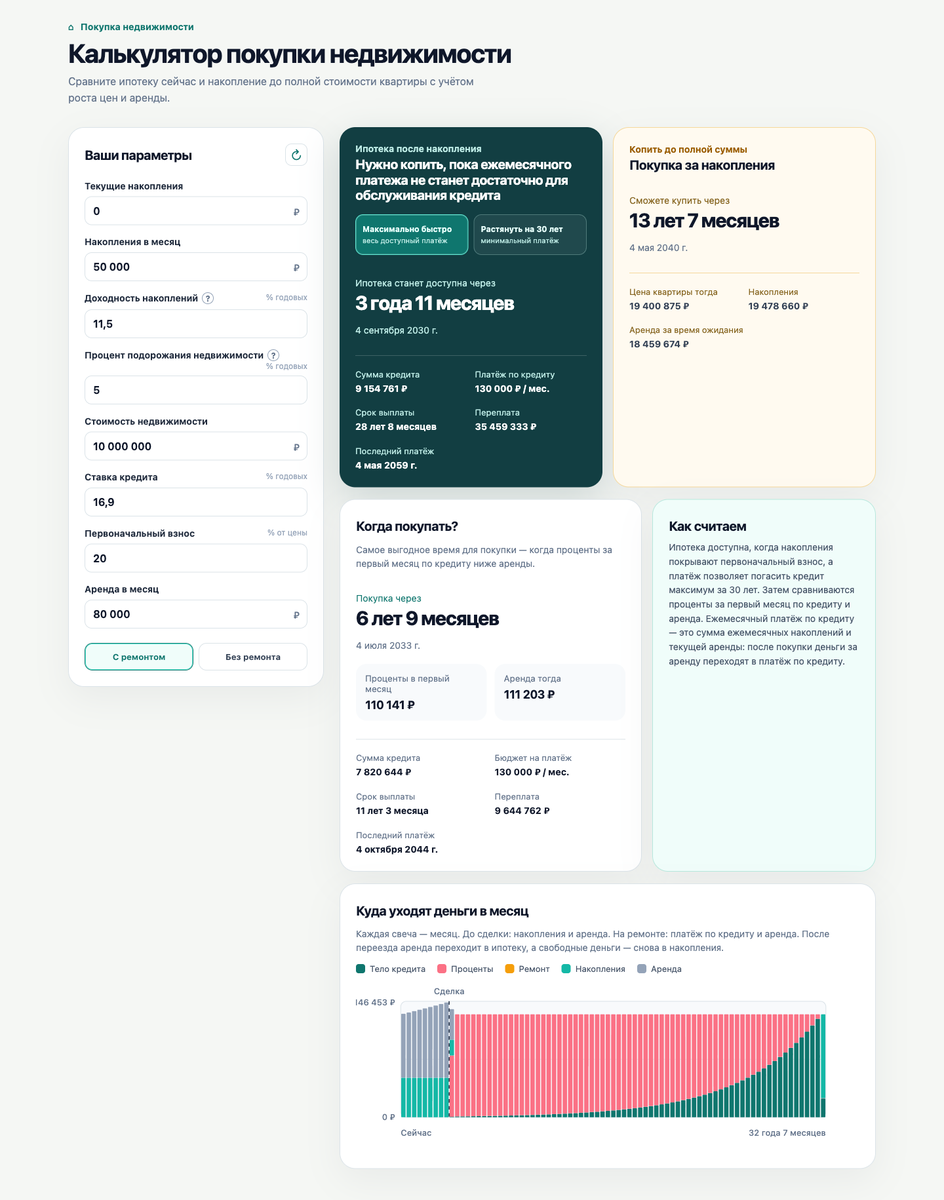
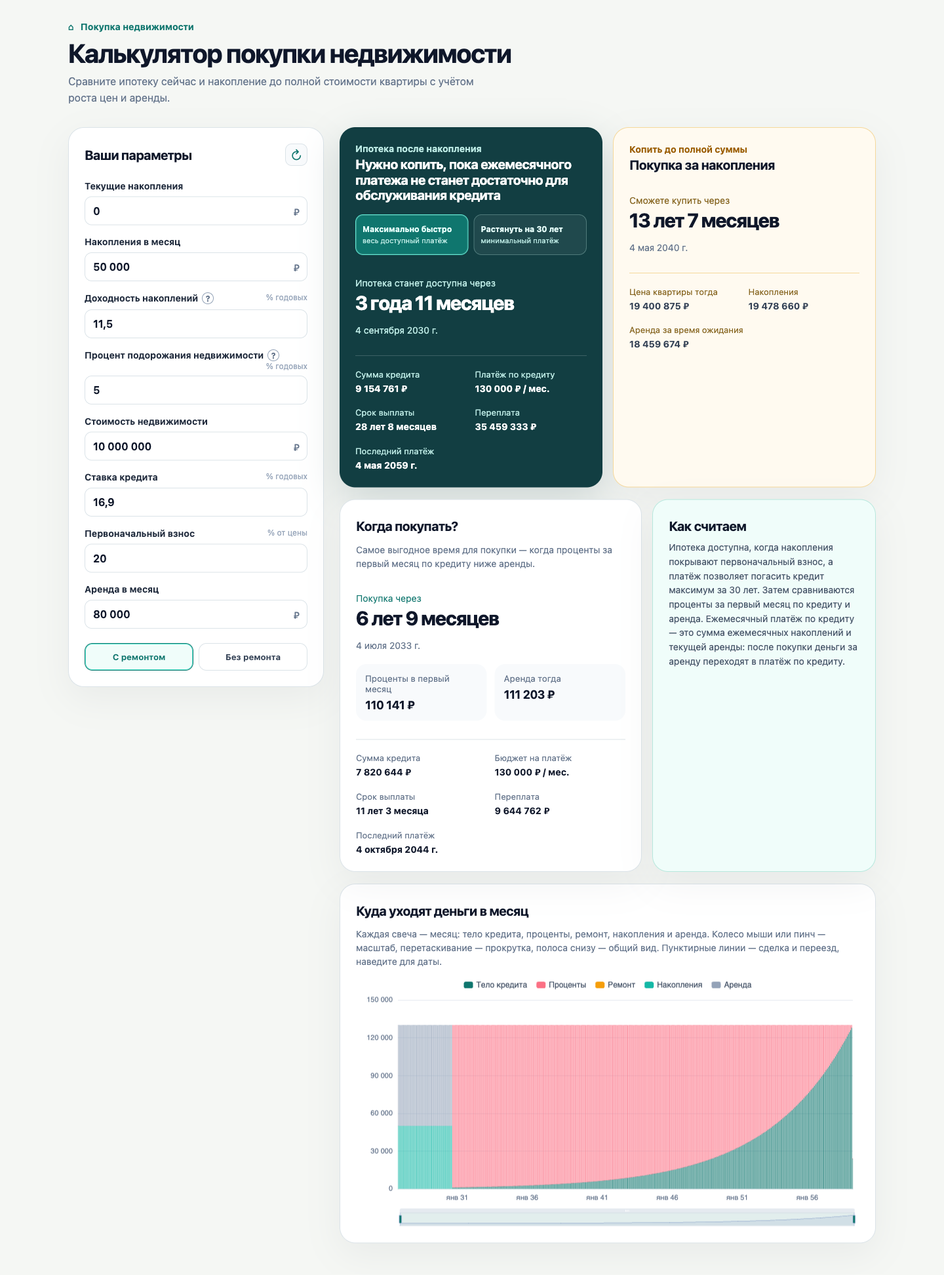
Swap the custom SVG chart for ECharts (#10)
The hand-rolled zoom (window buttons + pointer drag) felt wooden.
ECharts gives native wheel/pinch zoom, drag panning, an overview
slider, per-month tooltips with totals, deal/move mark lines and a
clickable legend. Monthly bars at full resolution - no bucketing.
Bundle +215 kB gzip. Also clip horizontal overflow from the hint
popovers on mobile.

diff --git a/src/App.vue b/src/App.vue
@@ -1,6 +1,12 @@
 <script setup>
-import { computed, nextTick, onMounted, reactive, ref } from 'vue';
+import { computed, nextTick, onBeforeUnmount, onMounted, reactive, ref, watch } from 'vue';
 import { DEFAULTS, SIMULATION_HORIZON_MONTHS, RENOVATION_COST_SHARE, calculate, isMortgagePaymentTooLow, buildCashflow, rentPaidUntilMonth } from './lib/model.js';
+import * as echarts from 'echarts/core';
+import { BarChart } from 'echarts/charts';
+import { DataZoomComponent, GridComponent, LegendComponent, TooltipComponent } from 'echarts/components';
+import { CanvasRenderer } from 'echarts/renderers';
+
+echarts.use([BarChart, DataZoomComponent, GridComponent, LegendComponent, TooltipComponent, CanvasRenderer]);
 import { addMonths, formatDate, duration } from './lib/format.js';
 
 const inputs = reactive({ ...DEFAULTS });
@@ -46,82 +52,72 @@ const setRenovationCost = (event) => {
 };
 const result = computed(() => calculate(inputs, repaymentMode.value, { needed: renovationNeeded.value, cost: renovationCost.value, months: renovationMonths.value, funding: renovationFunding.value }));
 const mortgagePaymentTooLow = computed(() => isMortgagePaymentTooLow(result.value));
-const CASHFLOW_SEGMENTS = [
-  { key: 'principal', label: 'Тело кредита', pick: (row) => row.principal },
-  { key: 'interest', label: 'Проценты', pick: (row) => row.interest },
-  { key: 'renovation', label: 'Ремонт', pick: (row) => row.renovation },
-  { key: 'savings', label: 'Накопления', pick: (row) => row.savings },
-  { key: 'rent', label: 'Аренда', pick: (row) => row.rent }
-];
-const cashflow = computed(() => buildCashflow(inputs, repaymentMode.value, { needed: renovationNeeded.value, cost: renovationCost.value, months: renovationMonths.value, funding: renovationFunding.value }));
-const cashflowHover = ref(null);
-const cashflowTooltip = (row, event) => {
-  const container = event.currentTarget.closest('.cashflow-chart');
-  const rect = container.getBoundingClientRect();
-  let left = event.clientX - rect.left + 16, top = event.clientY - rect.top + 16;
-  if (left > rect.width - 250) left -= 266;
-  if (top > rect.height - 180) top -= 196;
-  cashflowHover.value = {
-    left: Math.max(4, left), top: Math.max(4, top),
-    period: row.period,
-    segments: row.segments.filter(({ value }) => value >= 1),
-    total: row.segments.reduce((acc, segment) => acc + segment.value, 0)
-  };
-};
-const cashflowMarkerTooltip = (label, month, event) => {
-  const container = event.currentTarget.closest('.cashflow-chart');
-  const rect = container.getBoundingClientRect();
-  let left = event.clientX - rect.left + 14, top = event.clientY - rect.top + 14;
-  if (left > rect.width - 230) left -= 246;
-  cashflowHover.value = {
-    left: Math.max(4, left), top: Math.max(4, top),
-    period: `${label}: ${formatDate(addMonths(new Date(), month))}`,
-    segments: [], total: null
-  };
-};
-const cashflowChart = computed(() => {
-  const data = cashflow.value;
-  if (!data) return null;
-  const total = data.rows.length;
-  const bucketSize = Math.max(1, Math.ceil(total / 80));
-  const buckets = [];
-  for (let start = 0; start < total; start += bucketSize) {
-    const slice = data.rows.slice(start, start + bucketSize);
-    const average = (key) => slice.reduce((acc, row) => acc + row[key], 0) / slice.length;
-    buckets.push({ start, end: start + slice.length - 1, months: slice.length, savings: average('savings'), rent: average('rent'), renovation: average('renovation'), interest: average('interest'), principal: average('principal') });
-  }
-  const slot = 608 / buckets.length;
-  const barWidth = Math.min(slot * 0.82, 26);
-  const rows = buckets.map((bucket, index) => {
-    const segments = [];
-    let top = 200;
-    for (const segment of CASHFLOW_SEGMENTS) {
-      const value = segment.pick(bucket);
-      if (value < 0.5) continue;
-      const height = value / data.maximum * 166;
-      top -= height;
-      segments.push({ key: segment.key, y: top, height, label: segment.label, value });
-    }
-    const period = bucket.months > 1
-      ? `В среднем в месяц, ${formatDate(addMonths(new Date(), bucket.start))} — ${formatDate(addMonths(new Date(), bucket.end))}`
-      : `${formatDate(addMonths(new Date(), bucket.start))}`;
-    return { month: bucket.start, x: 64 + index * slot + (slot - barWidth) / 2, segments, period };
-  });
-  const markerX = (month) => 64 + Math.min(buckets.length - 1, Math.floor(month / bucketSize)) * slot;
-  const dealX = data.dealMonth > 0 ? markerX(data.dealMonth) : null;
-  const moveX = data.moveMonth > data.dealMonth ? markerX(data.moveMonth) : null;
-  const splitLabels = dealX !== null && moveX !== null && moveX - dealX < 80;
-  return {
-    rows, barWidth, dealMonth: data.dealMonth, moveMonth: data.moveMonth, dealX, moveX,
-    dealText: { x: splitLabels ? dealX - 8 : dealX, anchor: splitLabels ? 'end' : 'middle' },
-    moveText: { x: splitLabels ? moveX + 8 : moveX, anchor: splitLabels ? 'start' : 'middle' },
-    dealHit: splitLabels ? { x: dealX - 78, width: 80 } : { x: dealX - 22, width: 44 },
-    moveHit: splitLabels ? { x: moveX - 2, width: 80 } : { x: moveX - 22, width: 44 },
-    endLabel: duration(total)
-  };
-});
 const moveDate = (month) => month > SIMULATION_HORIZON_MONTHS ? 'Не достижимо' : formatDate(addMonths(new Date(), month));
 const moveRent = (month) => month > SIMULATION_HORIZON_MONTHS ? '—' : money.format(rentPaidUntilMonth(inputs, month));
+const CASHFLOW_SEGMENTS = [
+  { key: 'principal', label: 'Тело кредита', color: '#0f766e', pick: (row) => row.principal },
+  { key: 'interest', label: 'Проценты', color: '#fb7185', pick: (row) => row.interest },
+  { key: 'renovation', label: 'Ремонт', color: '#f59e0b', pick: (row) => row.renovation },
+  { key: 'savings', label: 'Накопления', color: '#14b8a6', pick: (row) => row.savings },
+  { key: 'rent', label: 'Аренда', color: '#94a3b8', pick: (row) => row.rent }
+];
+const cashflow = computed(() => buildCashflow(inputs, repaymentMode.value, { needed: renovationNeeded.value, cost: renovationCost.value, months: renovationMonths.value, funding: renovationFunding.value }));
+const cashflowEl = ref(null);
+let cashflowChart = null;
+const MONTHS_SHORT = ['янв', 'фев', 'мар', 'апр', 'май', 'июн', 'июл', 'авг', 'сен', 'окт', 'ноя', 'дек'];
+const formatMonthTick = (value) => { const date = new Date(value); return `${MONTHS_SHORT[date.getMonth()]} ${String(date.getFullYear()).slice(2)}`; };
+const buildCashflowOption = (data) => {
+  const monthDate = (month) => addMonths(new Date(), month).getTime();
+  const series = CASHFLOW_SEGMENTS.map((segment) => ({
+    name: segment.label,
+    type: 'bar',
+    stack: 'month',
+    barMaxWidth: 34,
+    itemStyle: { color: segment.color },
+    data: data.rows.map((row) => [monthDate(row.month), Math.round(segment.pick(row))])
+  }));
+  const marks = [];
+  if (data.dealMonth > 0) marks.push({ xAxis: monthDate(data.dealMonth), label: { formatter: 'Сделка', position: 'insideEndTop', color: '#334155' }, lineStyle: { color: '#334155', type: 'dashed', width: 1.5 } });
+  if (data.moveMonth > data.dealMonth) marks.push({ xAxis: monthDate(data.moveMonth), label: { formatter: 'Переезд', position: 'insideEndTop', color: '#334155' }, lineStyle: { color: '#334155', type: 'dashed', width: 1.5 } });
+  if (marks.length) series[0].markLine = { symbol: 'none', silent: true, animation: false, data: marks };
+  return {
+    animationDuration: 150,
+    tooltip: {
+      trigger: 'axis',
+      axisPointer: { type: 'shadow', shadowStyle: { color: 'rgba(15, 23, 42, .06)' } },
+      backgroundColor: '#0f172a',
+      borderWidth: 0,
+      padding: [10, 12],
+      textStyle: { color: '#e2e8f0', fontSize: 12 },
+      formatter: (points) => {
+        const total = points.reduce((acc, point) => acc + (point.value?.[1] ?? 0), 0);
+        const rowsHtml = points.filter((point) => (point.value?.[1] ?? 0) > 0).map((point) => `<div style="display:flex;justify-content:space-between;gap:18px"><span>${point.marker}${point.seriesName}</span><b>${money.format(point.value[1])}</b></div>`).join('');
+        return `<div style="min-width:210px"><div style="color:#94a3b8;font-size:11px;margin-bottom:4px">${formatDate(new Date(points[0].value[0]))}</div>${rowsHtml}<div style="display:flex;justify-content:space-between;gap:18px;border-top:1px solid rgba(255,255,255,.16);margin-top:6px;padding-top:5px"><span>Всего в месяц</span><b>${money.format(total)}</b></div></div>`;
+      }
+    },
+    legend: { top: 0, itemWidth: 14, itemHeight: 10, itemGap: 14, textStyle: { color: '#475569', fontSize: 12 } },
+    grid: { left: 64, right: 10, top: 34, bottom: 58 },
+    xAxis: { type: 'time', axisLine: { lineStyle: { color: '#dbe3e8' } }, axisTick: { show: false }, axisLabel: { color: '#64748b', fontSize: 11, formatter: (value) => formatMonthTick(value), hideOverlap: true } },
+    yAxis: { type: 'value', axisLine: { show: false }, axisTick: { show: false }, axisLabel: { color: '#64748b', fontSize: 11, formatter: (value) => plainNumber.format(value) }, splitLine: { lineStyle: { color: '#e2e8f0' } } },
+    dataZoom: [
+      { type: 'inside', filterMode: 'none' },
+      { type: 'slider', height: 20, bottom: 8, filterMode: 'none', borderColor: '#dbe3e8', fillerColor: 'rgba(15, 118, 110, .12)', handleStyle: { color: '#0f766e' }, moveHandleStyle: { color: '#cbd5e1' }, emphasis: { handleStyle: { borderColor: '#0f766e' } }, textStyle: { color: '#64748b', fontSize: 10 }, labelFormatter: (value) => formatMonthTick(value) }
+    ],
+    series
+  };
+};
+const renderCashflow = () => {
+  if (!cashflowEl.value) return;
+  if (!cashflowChart) {
+    cashflowChart = echarts.init(cashflowEl.value);
+    new ResizeObserver(() => cashflowChart?.resize()).observe(cashflowEl.value);
+  }
+  if (cashflow.value) cashflowChart.setOption(buildCashflowOption(cashflow.value), { notMerge: true });
+  else cashflowChart.clear();
+};
+watch(cashflow, renderCashflow, { flush: 'post' });
+onMounted(renderCashflow);
+onBeforeUnmount(() => { cashflowChart?.dispose(); cashflowChart = null; });
 const reset = () => { Object.assign(inputs, DEFAULTS); focusedAmount.value = null; renovationNeeded.value = false; renovationFunding.value = 'before'; renovationMonths.value = 6; renovationCostDraft.value = null; renovationCostInput.value = ''; renovationFocused.value = false; };
 onMounted(() => { const context = document.modelContext; if (!context?.registerTool) return; context.registerTool({ name: 'configure_home_purchase_calculator', title: 'Рассчитать покупку недвижимости', description: 'Устанавливает параметры и возвращает сравнение ипотеки с накоплением.', inputSchema: { type: 'object', properties: { savings: { type: 'number', minimum: 0 }, monthlySavings: { type: 'number', minimum: 0 }, mortgageRate: { type: 'number', minimum: 0 }, propertyPrice: { type: 'number', minimum: 0 }, downPaymentPercent: { type: 'number', minimum: 0 }, inflation: { type: 'number', minimum: 0 }, rent: { type: 'number', minimum: 0 }, depositRate: { type: 'number', minimum: 0 } }, required: Object.keys(DEFAULTS), additionalProperties: false }, annotations: { readOnlyHint: false, untrustedContentHint: false }, execute(next) { Object.assign(inputs, next); const r = result.value; return { mortgageMonths: r.months === null ? null : Math.ceil(r.months), mortgagePayment: Math.round(r.payment), cashPurchaseMonths: r.cashPurchase?.month ?? null }; } }, { signal: new AbortController().signal }).catch(() => {}); });
 </script>
@@ -149,5 +145,5 @@ onMounted(() => { const context = document.modelContext; if (!context?.registerT
     <p v-else class="empty">Первоначальный взнос не накапливается в горизонте 60 лет.</p>
   </article>
   <article class="card cash"><p class="kicker">Копить до полной суммы</p><h2>Покупка за накопления</h2><template v-if="result.cashPurchase"><p class="big-label">Сможете купить через</p><p class="big">{{ duration(result.cashPurchase.month) }}</p><p class="muted">{{ formatDate(addMonths(new Date(), result.cashPurchase.month)) }}</p><dl><div><dt>Цена квартиры тогда</dt><dd>{{ money.format(result.cashPurchase.price) }}</dd></div><div><dt>Накопления</dt><dd>{{ money.format(result.cashPurchase.balance) }}</dd></div><div class="wide"><dt>Аренда за время ожидания</dt><dd>{{ money.format(result.cashPurchase.rentPaid) }}</dd></div><div v-if="renovationNeeded" class="wide"><dt>Дата переезда</dt><dd>{{ moveDate(result.cashPurchase.moveMonth) }}</dd></div></dl></template><p v-else class="empty">При этих параметрах накопления не догоняют стоимость недвижимости за 60 лет. Увеличьте ежемесячный взнос или доходность вклада.</p></article></div>
-  <div class="bottom"><article class="card threshold"><h2>Когда покупать?</h2><p class="muted">Самое выгодное время для покупки — когда проценты за первый месяц по кредиту ниже аренды.</p><template v-if="result.thresholdPurchase"><p class="big-label">Покупка через</p><p class="big">{{ duration(result.thresholdPurchase.month) }}</p><p class="muted">{{ formatDate(addMonths(new Date(), result.thresholdPurchase.month)) }}</p><div class="year"><div><small>Проценты в первый месяц</small><strong>{{ money.format(result.thresholdPurchase.firstMonthInterest) }}</strong></div><div><small>Аренда тогда</small><strong>{{ money.format(result.thresholdPurchase.rent) }}</strong></div></div><dl><div><dt>Сумма кредита</dt><dd>{{ money.format(result.thresholdPurchase.principal) }}</dd></div><div><dt>Бюджет на платёж</dt><dd>{{ money.format(result.thresholdPurchase.payment) }} / мес.</dd></div><div><dt>Срок выплаты</dt><dd>{{ duration(result.thresholdPurchase.months) }}</dd></div><div><dt>Переплата</dt><dd>{{ money.format(result.thresholdPurchase.overpayment) }}</dd></div><div class="wide"><dt>Последний платёж</dt><dd>{{ formatDate(addMonths(addMonths(new Date(), result.thresholdPurchase.month), result.thresholdPurchase.months)) }}</dd></div><div v-if="renovationNeeded"><dt>Переезд</dt><dd>{{ moveDate(result.thresholdPurchase.moveMonth) }}</dd></div><div v-if="renovationNeeded" class="wide"><dt>Аренда до переезда</dt><dd>{{ moveRent(result.thresholdPurchase.moveMonth) }}</dd></div></dl></template><p v-else class="empty">В горизонте 60 лет условия покупки не выполняются.</p></article><aside class="card how"><h2>Как считаем</h2><p>Ипотека доступна, когда накопления покрывают первоначальный взнос, а платёж позволяет погасить кредит максимум за 30 лет. Затем сравниваются проценты за первый месяц по кредиту и аренда. Ежемесячный платёж по кредиту — это сумма ежемесячных накоплений и текущей аренды: после покупки деньги за аренду переходят в платёж по кредиту.</p><p v-if="renovationNeeded && renovationFunding === 'before'">Квартира без ремонта: цель накоплений — первоначальный взнос плюс стоимость ремонта, обе суммы растут вместе с ценой недвижимости. Сделка, затем ремонт — в это время аренда продолжается, а платёж по кредиту обслуживается только из ежемесячных накоплений. Аренда переходит в платёж по кредиту после переезда.</p><p v-if="renovationNeeded && renovationFunding === 'after'">Ремонт после покупки: сделка — при накоплении первоначального взноса. Пока ремонт не оплачен, кредит обслуживается 30-летним аннуитетом, а излишек «накопления минус аннуитет» идёт на ремонт поэтапно. Переезд — когда завершены и работы, и оплата; после переезда свободные деньги ускоряют погашение.</p></aside></div><article v-if="cashflowChart" class="card cashflow-chart"><div><h2>Куда уходят деньги в месяц</h2><p class="muted">Каждая свеча — месяц. До сделки: накопления и аренда. На ремонте: платёж по кредиту и аренда. После переезда аренда переходит в ипотеку, а свободные деньги — снова в накопления.</p></div><div class="chart-legend"><span><i class="cf-principal"></i>Тело кредита</span><span><i class="cf-interest"></i>Проценты</span><span><i class="cf-renovation"></i>Ремонт</span><span><i class="cf-savings"></i>Накопления</span><span><i class="cf-rent"></i>Аренда</span></div><svg viewBox="0 0 720 250" role="img" aria-label="Ежемесячное распределение платежей по категориям"><rect class="chart-frame" x="64" y="34" width="608" height="166" rx="8"/><line class="chart-grid" x1="64" y1="117" x2="672" y2="117"/><g v-for="row in cashflowChart.rows" :key="row.month" @mouseenter="cashflowTooltip(row, $event)" @mousemove="cashflowTooltip(row, $event)" @mouseleave="cashflowHover = null"><rect v-for="seg in row.segments" :key="seg.key" :class="'cf-' + seg.key" :x="row.x" :y="seg.y" :width="cashflowChart.barWidth" :height="seg.height" rx="1"/></g><g v-if="cashflowChart.dealX !== null" class="chart-marker-group" @mouseenter="cashflowMarkerTooltip('Сделка', cashflowChart.dealMonth, $event)" @mousemove="cashflowMarkerTooltip('Сделка', cashflowChart.dealMonth, $event)" @mouseleave="cashflowHover = null"><rect class="chart-marker-hit" :x="cashflowChart.dealHit.x" y="14" :width="cashflowChart.dealHit.width" height="186"/><line class="chart-marker" :x1="cashflowChart.dealX" y1="34" :x2="cashflowChart.dealX" y2="200"/><text :x="cashflowChart.dealText.x" y="24" :text-anchor="cashflowChart.dealText.anchor">Сделка</text></g><g v-if="cashflowChart.moveX !== null" class="chart-marker-group" @mouseenter="cashflowMarkerTooltip('Переезд', cashflowChart.moveMonth, $event)" @mousemove="cashflowMarkerTooltip('Переезд', cashflowChart.moveMonth, $event)" @mouseleave="cashflowHover = null"><rect class="chart-marker-hit" :x="cashflowChart.moveHit.x" y="14" :width="cashflowChart.moveHit.width" height="186"/><line class="chart-marker" :x1="cashflowChart.moveX" y1="34" :x2="cashflowChart.moveX" y2="200"/><text :x="cashflowChart.moveText.x" y="24" :text-anchor="cashflowChart.moveText.anchor">Переезд</text></g><text x="56" y="204" text-anchor="end">0 ₽</text><text x="64" y="226">Сейчас</text><text x="672" y="226" text-anchor="end">{{ cashflowChart.endLabel }}</text></svg><div v-if="cashflowHover" class="chart-tooltip" :style="{ left: cashflowHover.left + 'px', top: cashflowHover.top + 'px' }"><p class="chart-tooltip-period">{{ cashflowHover.period }}</p><div v-for="seg in cashflowHover.segments" :key="seg.key" class="chart-tooltip-row"><span><i class="cf-dot" :class="'cf-' + seg.key"></i>{{ seg.label }}</span><b>{{ money.format(seg.value) }}</b></div><div v-if="cashflowHover.total !== null" class="chart-tooltip-row chart-tooltip-total"><span>Всего в месяц</span><b>{{ money.format(cashflowHover.total) }}</b></div></div></article></section></div></main>
+  <div class="bottom"><article class="card threshold"><h2>Когда покупать?</h2><p class="muted">Самое выгодное время для покупки — когда проценты за первый месяц по кредиту ниже аренды.</p><template v-if="result.thresholdPurchase"><p class="big-label">Покупка через</p><p class="big">{{ duration(result.thresholdPurchase.month) }}</p><p class="muted">{{ formatDate(addMonths(new Date(), result.thresholdPurchase.month)) }}</p><div class="year"><div><small>Проценты в первый месяц</small><strong>{{ money.format(result.thresholdPurchase.firstMonthInterest) }}</strong></div><div><small>Аренда тогда</small><strong>{{ money.format(result.thresholdPurchase.rent) }}</strong></div></div><dl><div><dt>Сумма кредита</dt><dd>{{ money.format(result.thresholdPurchase.principal) }}</dd></div><div><dt>Бюджет на платёж</dt><dd>{{ money.format(result.thresholdPurchase.payment) }} / мес.</dd></div><div><dt>Срок выплаты</dt><dd>{{ duration(result.thresholdPurchase.months) }}</dd></div><div><dt>Переплата</dt><dd>{{ money.format(result.thresholdPurchase.overpayment) }}</dd></div><div class="wide"><dt>Последний платёж</dt><dd>{{ formatDate(addMonths(addMonths(new Date(), result.thresholdPurchase.month), result.thresholdPurchase.months)) }}</dd></div><div v-if="renovationNeeded"><dt>Переезд</dt><dd>{{ moveDate(result.thresholdPurchase.moveMonth) }}</dd></div><div v-if="renovationNeeded" class="wide"><dt>Аренда до переезда</dt><dd>{{ moveRent(result.thresholdPurchase.moveMonth) }}</dd></div></dl></template><p v-else class="empty">В горизонте 60 лет условия покупки не выполняются.</p></article><aside class="card how"><h2>Как считаем</h2><p>Ипотека доступна, когда накопления покрывают первоначальный взнос, а платёж позволяет погасить кредит максимум за 30 лет. Затем сравниваются проценты за первый месяц по кредиту и аренда. Ежемесячный платёж по кредиту — это сумма ежемесячных накоплений и текущей аренды: после покупки деньги за аренду переходят в платёж по кредиту.</p><p v-if="renovationNeeded && renovationFunding === 'before'">Квартира без ремонта: цель накоплений — первоначальный взнос плюс стоимость ремонта, обе суммы растут вместе с ценой недвижимости. Сделка, затем ремонт — в это время аренда продолжается, а платёж по кредиту обслуживается только из ежемесячных накоплений. Аренда переходит в платёж по кредиту после переезда.</p><p v-if="renovationNeeded && renovationFunding === 'after'">Ремонт после покупки: сделка — при накоплении первоначального взноса. Пока ремонт не оплачен, кредит обслуживается 30-летним аннуитетом, а излишек «накопления минус аннуитет» идёт на ремонт поэтапно. Переезд — когда завершены и работы, и оплата; после переезда свободные деньги ускоряют погашение.</p></aside></div><article v-if="cashflow" class="card cashflow-chart"><div><h2>Куда уходят деньги в месяц</h2><p class="muted">Каждая свеча — месяц: тело кредита, проценты, ремонт, накопления и аренда. Колесо мыши или пинч — масштаб, перетаскивание — прокрутка, полоса снизу — общий вид. Пунктирные линии — сделка и переезд, наведите для даты.</p></div><div ref="cashflowEl" class="cashflow-echarts"></div></article></section></div></main>
 </template>

diff --git a/src/style.css b/src/style.css
@@ -1,6 +1,6 @@
-:root { font-family: Inter, ui-sans-serif, system-ui, -apple-system, BlinkMacSystemFont, "Segoe UI", sans-serif; color: #0f172a; background: #f5f7f4; }
+:root { font-family: Inter, ui-sans-serif, system-ui, -apple-system, BlinkMacSystemFont, "Segoe UI", sans-serif; color: #0f172a; background: #f5f7f4; overflow-x: hidden; }
 * { box-sizing: border-box; }
-body { margin: 0; background: #f5f7f4; }
+body { margin: 0; background: #f5f7f4; overflow-x: hidden; }
 main { max-width: 1280px; padding: 32px 24px 48px; margin: auto; }
 header { display: flex; gap: 16px; justify-content: space-between; align-items: end; margin-bottom: 32px; }
 .eyebrow { color: #0f766e; font-size: 14px; font-weight: 700; margin-bottom: 10px; }
@@ -32,19 +32,13 @@ input:focus { outline: 3px solid #ccfbf1; border-color: #0f766e; }
 dl { display: grid; grid-template-columns: repeat(2, minmax(0, 1fr)); gap: 20px 12px; margin: 28px 0 0; padding-top: 20px; border-top: 1px solid rgba(255,255,255,.18); }.cash dl { border-color: #f5d89b; color: #334155; }dt { font-size: 13px; color: #bceae4; }.cash dt { color: #866520; }dd { margin: 5px 0 0; font-size: 14px; font-weight: 700; line-height: 1.35; }.wide { grid-column: 1 / -1; }
 .bottom { display: grid; grid-template-columns: 1.15fr .85fr; gap: 16px; margin-top: 18px; }.bottom .card { min-height: auto; }.threshold .big-label { color: #0f766e; }.threshold dl { border-color: #dbe3e8; color: #0f172a; }.threshold dt { color: #64748b; }.year { display: grid; grid-template-columns: 1fr 1fr; gap: 12px; margin-top: 18px; }.year > div { padding: 14px; border-radius: 16px; background: #f8fafc; }.year small { color: #64748b; display: block; }.year strong { display: block; margin-top: 5px; font-size: 18px; letter-spacing: -.02em; }.how { background: #f0fdfa; border-color: #b7e8dd; }.how p { line-height: 1.55; margin: 10px 0 0; color: #475569; font-size: 14px; }
 .warning { margin: 16px 0 0; padding: 14px 16px; color: #9f1239; background: #fff1f2; border: 1px solid #fecdd3; border-radius: 16px; font-size: 14px; line-height: 1.45; }.empty { margin-top: 32px; padding: 16px; border: 1px solid #f5d89b; border-radius: 16px; color: #78350f; background: rgba(255,255,255,.72); font-size: 14px; line-height: 1.5; }
-.chart-frame { fill: #f8fafc; stroke: #dbe3e8; }
-.chart-grid { stroke: #e2e8f0; }
-.chart-marker { stroke: #334155; stroke-width: 1.5; stroke-dasharray: 5 5; }
-.chart-marker-group { cursor: help; }.chart-marker-hit { fill: transparent; }
-.chart-legend { display: flex; flex-wrap: wrap; gap: 8px 18px; margin-top: 14px; font-size: 13px; color: #475569; }.chart-legend span { display: inline-flex; align-items: center; gap: 7px; }.chart-legend i { width: 14px; height: 14px; border-radius: 4px; }
-.cashflow-chart { margin-top: 18px; position: relative; }
-.cashflow-chart svg { display: block; width: 100%; height: auto; margin-top: 6px; }
-.cashflow-chart text { fill: #64748b; font-size: 12px; font-weight: 500; }
-.cf-principal { fill: #0f766e; background: #0f766e; }.cf-interest { fill: #fb7185; background: #fb7185; }.cf-renovation { fill: #f59e0b; background: #f59e0b; }.cf-savings { fill: #14b8a6; background: #14b8a6; }.cf-rent { fill: #94a3b8; background: #94a3b8; }
-.cf-dot { display: inline-block; width: 8px; height: 8px; border-radius: 2px; margin-right: 7px; }
-.chart-tooltip { position: absolute; z-index: 20; min-width: 210px; max-width: 280px; padding: 10px 12px; border-radius: 12px; background: #0f172a; color: #e2e8f0; font-size: 12.5px; line-height: 1.45; box-shadow: 0 14px 30px rgba(15, 23, 42, .28); pointer-events: none; }
-.chart-tooltip-period { margin: 0 0 6px; color: #94a3b8; font-size: 11.5px; }
-.chart-tooltip-row { display: flex; justify-content: space-between; gap: 16px; margin-top: 4px; }.chart-tooltip-row b { white-space: nowrap; font-weight: 700; }
-.chart-tooltip-total { border-top: 1px solid rgba(255, 255, 255, .16); margin-top: 7px; padding-top: 6px; }
+
+.chart-legend span { display: inline-flex; align-items: center; gap: 7px; }.chart-legend i { width: 14px; height: 14px; border-radius: 4px; }
+.cashflow-chart { margin-top: 18px; }
+.cashflow-echarts { width: 100%; height: 380px; }
+@media (max-width: 620px) { .cashflow-echarts { height: 300px; } }
+
+.state-toggle.mini button { min-height: 34px; padding: 6px 12px; font-size: 12.5px; }
+
 @media (max-width: 900px) { .layout { grid-template-columns: 1fr; }.inputs { grid-template-columns: 1fr 1fr; } }
-@media (max-width: 620px) { main { padding: 22px 16px 32px; } header { align-items: start; flex-direction: column; margin-bottom: 20px; }.inputs, .cards, .bottom, .year { grid-template-columns: 1fr; }.panel, .card { padding: 20px; border-radius: 20px; } }
+@media (max-width: 620px) { main { padding: 22px 16px 32px; } header { align-items: start; flex-direction: column; margin-bottom: 20px; }.inputs, .cards, .bottom, .year { grid-template-columns: 1fr; }.panel, .card { padding: 20px; border-radius: 20px; }.hint-popover { left: -160px; max-width: calc(100vw - 176px); } }

diff --git a/README.md b/README.md
@@ -42,7 +42,9 @@
 
 ## Куда уходят деньги в месяц
 
-Диаграмма — стековые свечи по месяцам: тело кредита, проценты, ремонт, накопления и аренда. До сделки месячный бюджет делится между накоплениями и арендой; на ремонте аренда продолжается, а платёж по кредиту обслуживается из накоплений; после переезда аренда переходит в ипотеку, и свободные деньги снова идут в накопления. Наведите курсор на свечу — увидите месяц и точные суммы.
+Диаграмма — стековые свечи по месяцам: тело кредита, проценты, ремонт, накопления и аренда. До сделки месячный бюджет делится между накоплениями и арендой; на ремонте аренда продолжается, а платёж по кредиту обслуживается из накоплений; после переезда аренда переходит в ипотеку. Пунктирные линии — сделка и переезд.
+
+График интерактивный: колесо мыши или пинч — масштаб, перетаскивание — прокрутка, полоса снизу — общий вид, наведение на свечу — точные суммы за месяц.
 
 ![Куда уходят деньги в месяц](docs/screenshots/cashflow.png)
 
@@ -109,5 +111,5 @@ npm run preview  # локальный просмотр сборки
 ## Стек
 
 - [Vue 3](https://vuejs.org/) + [Vite](https://vite.dev/)
-- Компонент `src/App.vue` + чистая финансовая модель в `src/lib/` (покрыта тестами Vitest), без UI-библиотек и зависимостей кроме Vue
-- График — самодельный SVG, без chart-библиотек
+- Компонент `src/App.vue` + чистая финансовая модель в `src/lib/` (покрыта тестами Vitest)
+- График — [ECharts](https://echarts.apache.org/) (зум, прокрутка, тултипы); без UI-библиотек
